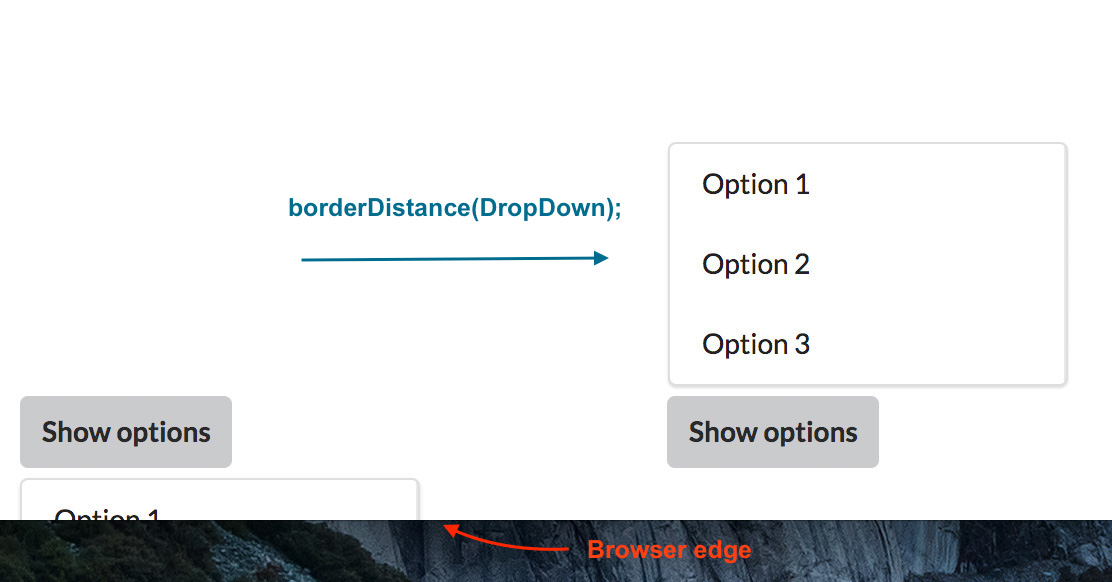
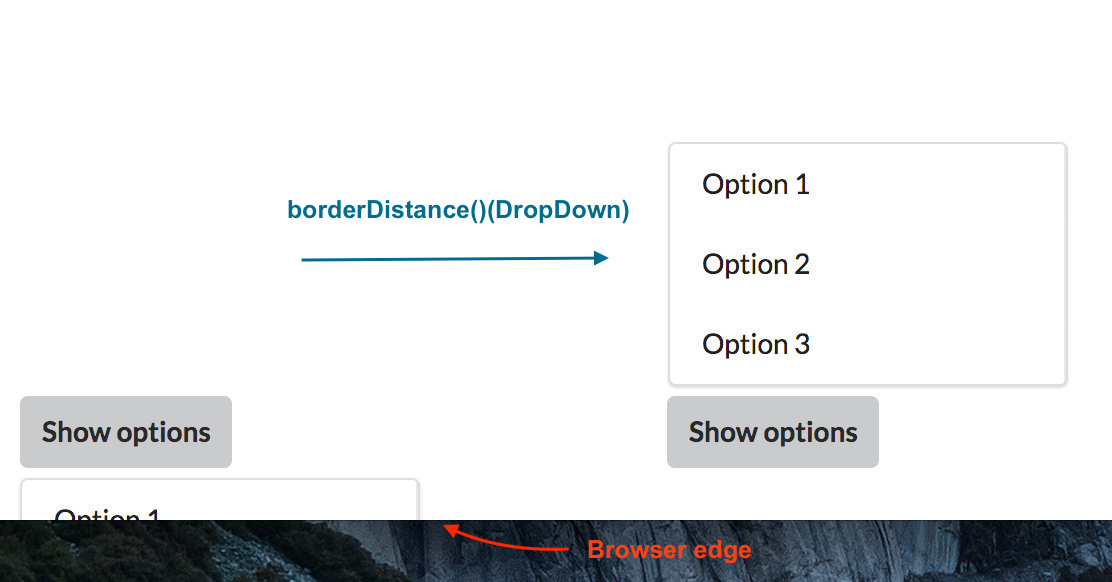
Updated README and published new version.

Changed region(s): [[0.2446, 0.3402, 0.5809, 0.4021]]

diff --git a/README.md b/README.md
@@ -1,9 +1,68 @@
 ## React Border Distance
+
+![version](https://img.shields.io/npm/v/react-border-distance.svg)
+
 A higher-order component (HOC) to get the distance of a react element to a scrollable element or window border.
 Helpful for action-based overlapping content e.g. dropdown or tooltips.
+
+<img src="https://raw.githubusercontent.com/nschnierer/react-border-distance/master/assets/dropdown-example.jpg" alt="react-border-distance" width="500" style="box-shadow: 0 0 2px #999" />
 
 ## Usage
 The package can be installed via NPM:
 ```
 npm install --save react-border-distance
 ```
+
+Example with decorator (e.g. babel-plugin-transform-decorators-legacy):
+
+> `distance` prop is only available when the mouse enters the component (onMouseEnter).
+```js
+import React from "react";
+import borderDistance from "react-border-distance";
+
+@borderDistance()
+class DropDown extends React.Component {
+  /*...*/
+  render() {
+    const { distance } = this.props;
+
+    const type = distance && distance.bottom < 100
+      ? "dropup"
+      : "dropdown";
+
+    return(
+      <div className={`${type}`}>
+      </div>
+    );
+  }
+}
+```
+
+Example without decorator (e.g. babel-plugin-transform-decorators-legacy):
+```js
+import React from "react";
+import borderDistance from "react-border-distance";
+
+class DropDown extends React.Component {
+  /*... see above ...*/
+}
+
+export default borderDistance()(DropDown);
+```
+
+Style wrapper component:
+```js
+@borderDistance({ position: "relative" }, "class-name")
+class ...
+
+// or
+
+export default borderDistance({ position: "relative" }, "class-name")(DropDown);
+```
+
+## Available Props
+
+#### `distance: object;`
+An Object which contains the distance.
+`{ top: number, right: number, bottom: number, left: number }`
+(Only available onMouseEnter)
